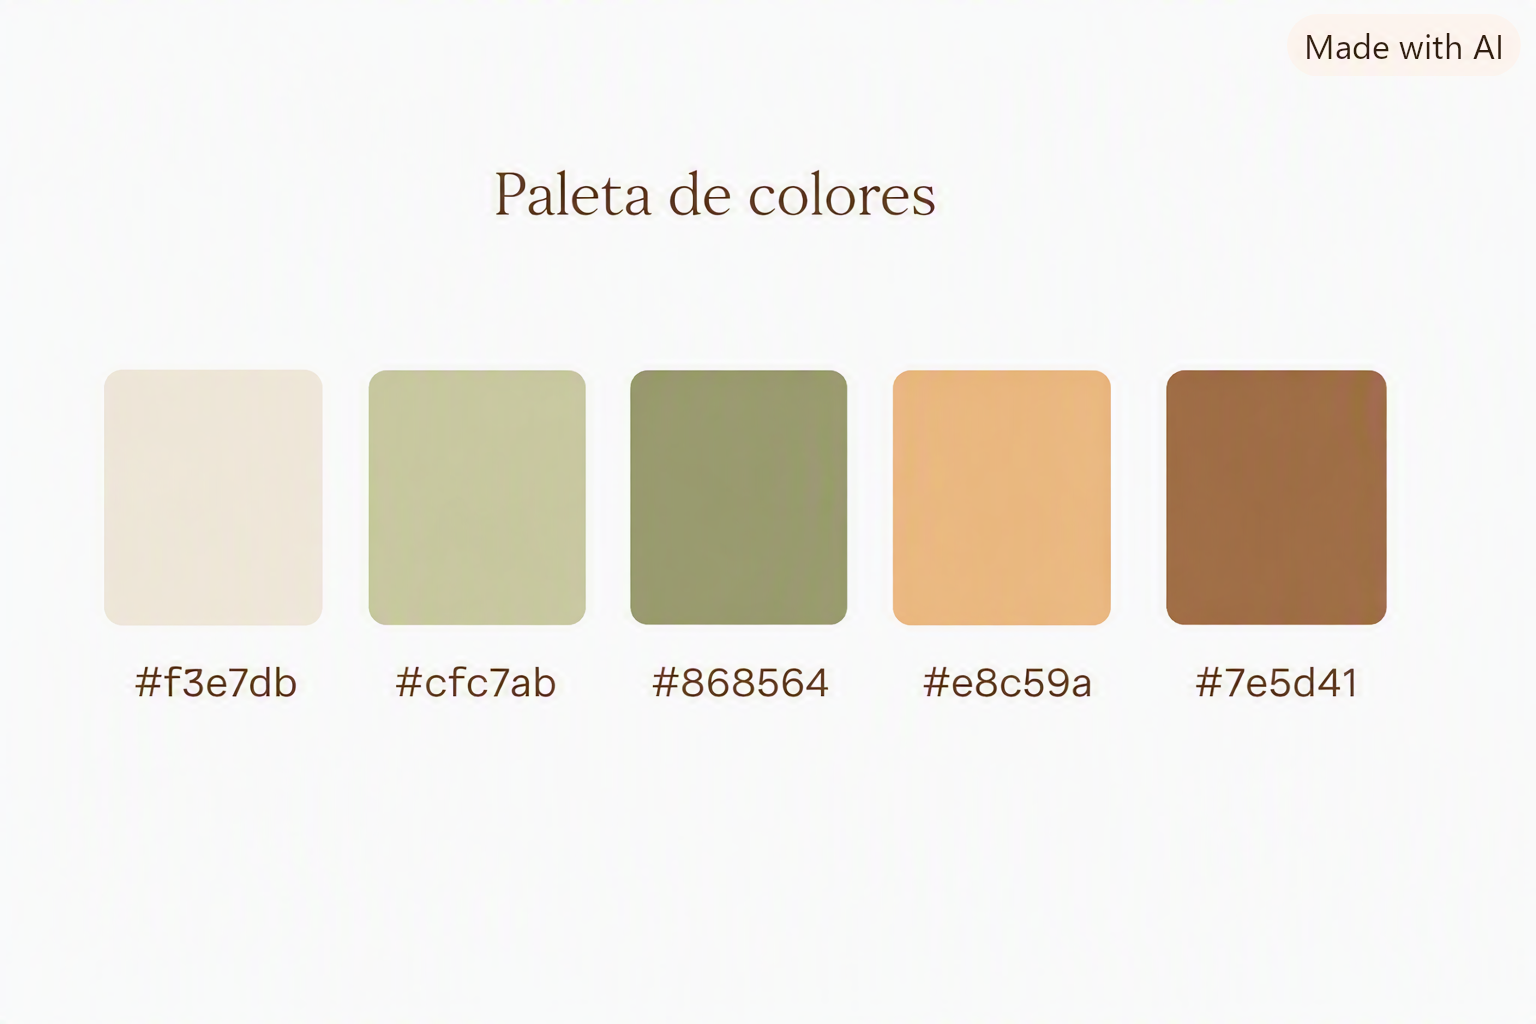
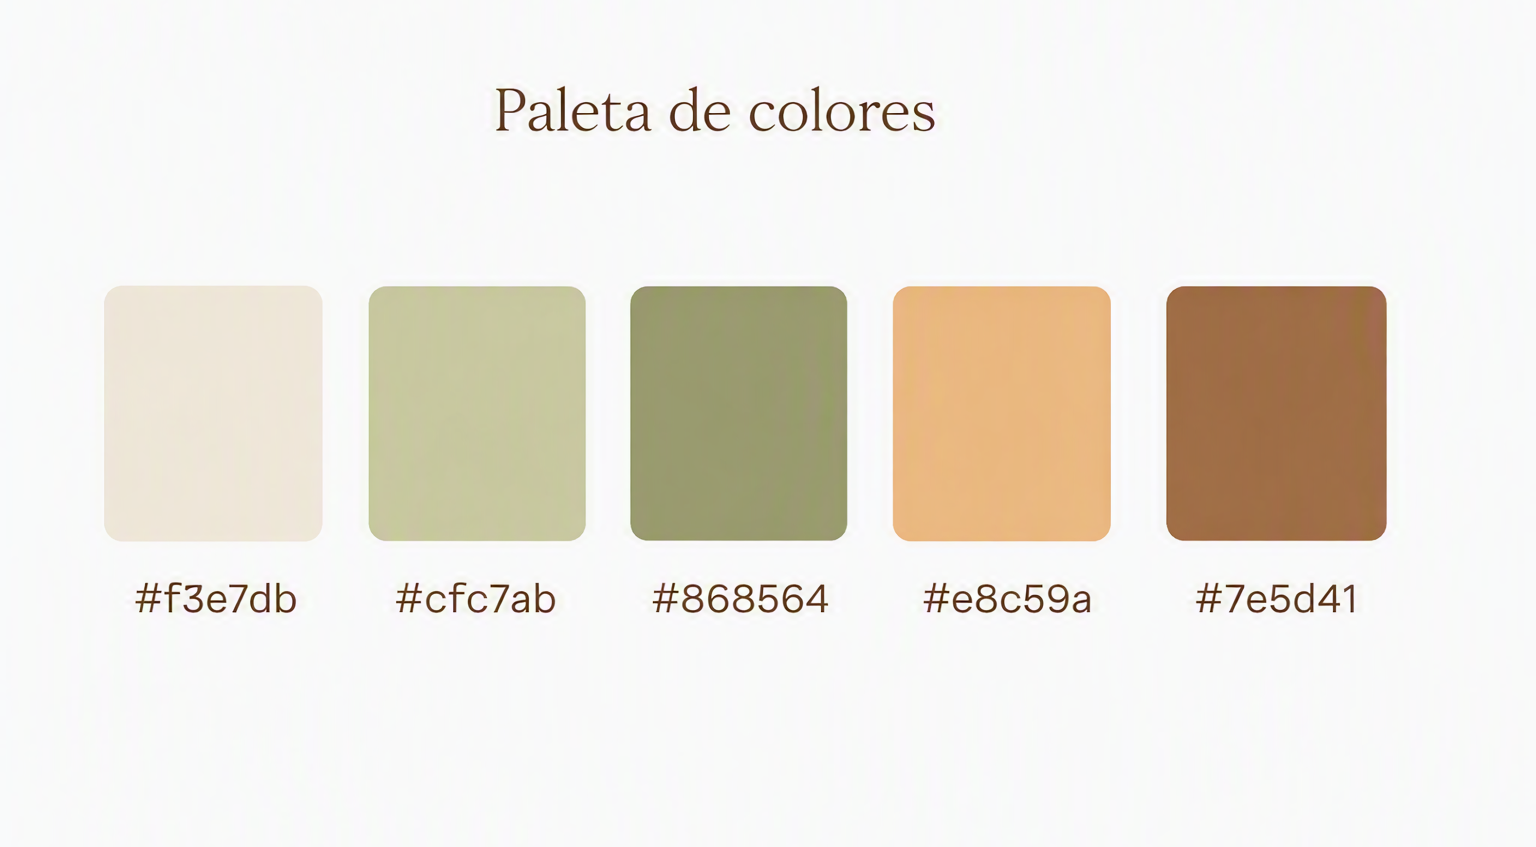
docs: ratify spec-kit constitution v1.0.0 (principles from project CONSTITUTION.md)

diff --git a/.specify/memory/constitution.md b/.specify/memory/constitution.md
@@ -1,50 +1,112 @@
-# [PROJECT_NAME] Constitution
-<!-- Example: Spec Constitution, TaskFlow Constitution, etc. -->
+<!--
+  Sync Impact Report
+  ----------------------------------------------------------------
+  Version change: (sin ratificar / scaffold) → 1.0.0
+  Principios modificados: N/A (ratificación inicial, sustituye el scaffold)
+  Secciones añadidas: Core Principles (5), Technical Architecture & Security,
+    Development Workflow & Quality Gates, Governance
+  Secciones eliminadas: N/A
+  TODOs diferidos: ninguno
+-->
+
+# Salud desde el Alma Constitution
+
+Documento de gobernanza de Spec Kit. La fuente de verdad de largo aliento del proyecto es
+`CONSTITUTION.md` en la raíz; esta constitución fija los principios operativos no negociables que
+todo comando, agente y cambio del ciclo deben respetar.
 
 ## Core Principles
 
-### [PRINCIPLE_1_NAME]
-<!-- Example: I. Library-First -->
-[PRINCIPLE_1_DESCRIPTION]
-<!-- Example: Every feature starts as a standalone library; Libraries must be self-contained, independently testable, documented; Clear purpose required - no organizational-only libraries -->
+### I. Mobile-First, Calm UX
+- El dispositivo principal de la cliente es el móvil: toda pantalla (landing y panel) se diseña
+  primero para móvil y luego escala a tablet/desktop.
+- Diseño minimalista, accesible (WCAG AA: contraste, tipografía legible, zonas táctiles cómodas)
+  y sereno: espacios amplios, bordes suaves, micro-interacciones tranquilas.
+- La apariencia debe ceñirse a la paleta oficial verde/sepia (Verde armonía `#6B8F71`, Verde
+  profundo `#3C5A44`, Sepia cálido `#A67C52`, Beige arena `#D9CBB3`, Dorado tenue `#C2A878`)
+  con el uso recomendado definido en §2.2 del CONSTITUTION.md.
+- Cada pantalla cumple una función clara; un solo color de acento por tarea principal.
 
-### [PRINCIPLE_2_NAME]
-<!-- Example: II. CLI Interface -->
-[PRINCIPLE_2_DESCRIPTION]
-<!-- Example: Every library exposes functionality via CLI; Text in/out protocol: stdin/args → stdout, errors → stderr; Support JSON + human-readable formats -->
+### II. Control & Security First
+- Se prohíbe depender de un BaaS para funciones críticas: el backend es propio
+  (Node.js + Express.js) con control total de la lógica de negocio e integraciones.
+- Autenticación mediante middleware propio (JWT + sesión con expiración) en todas las rutas del
+  panel y de la API; control de accesos por rol en la lógica de la aplicación.
+- SSL/TLS obligatorio en toda comunicación; secretos exclusivamente en variables de entorno,
+  jamás en el repositorio.
+- Base de datos PostgreSQL alojada en Hostinger, gestionada con Prisma (migraciones seguras y
+  consistentes). Racional del principio: evolución hacia reportes clínicos avanzados y auditoría
+  de datos sensibles sin limitaciones de un proveedor externo.
 
-### [PRINCIPLE_3_NAME]
-<!-- Example: III. Test-First (NON-NEGOTIABLE) -->
-[PRINCIPLE_3_DESCRIPTION]
-<!-- Example: TDD mandatory: Tests written → User approved → Tests fail → Then implement; Red-Green-Refactor cycle strictly enforced -->
+### III. Data Privacy & Auditability
+- Los datos de salud son sensibles: se tratan con confidencialidad y acceso restringido,
+  conforme a la normativa mexicana aplicable (LFPDPPP) y mejores prácticas.
+- Toda acción crítica (accesos, citas, pagos, cancelaciones) DEBE quedar registrada en la tabla
+  `audit_logs` como base para auditorías futuras.
+- El control de acceso es por capas (autenticación JWT + validación por rol); se debe poder
+  demostrar quién accedió a qué y cuándo.
 
-### [PRINCIPLE_4_NAME]
-<!-- Example: IV. Integration Testing -->
-[PRINCIPLE_4_DESCRIPTION]
-<!-- Example: Focus areas requiring integration tests: New library contract tests, Contract changes, Inter-service communication, Shared schemas -->
+### IV. Test & Quality Gates
+- Ninguna fase se considera cerrada sin cumplir su criterio de aceptación (§6.4 del
+  CONSTITUTION.md). El cerrado de fase es un gate, no una sugerencia.
+- Pruebas unitarias de la lógica de negocio (montos, validaciones de agendamiento, reglas del
+  chatbot); pruebas de integración sobre backend Node + PostgreSQL/Prisma + webhooks de WhatsApp;
+  UAT con la usuaria desde su móvil; pruebas de seguridad (JWT, control de accesos, SSL, secretos).
+- `main` solo recibe cambios probados de `develop`; toda integración se hace por Pull Request.
 
-### [PRINCIPLE_5_NAME]
-<!-- Example: V. Observability, VI. Versioning & Breaking Changes, VII. Simplicity -->
-[PRINCIPLE_5_DESCRIPTION]
-<!-- Example: Text I/O ensures debuggability; Structured logging required; Or: MAJOR.MINOR.BUILD format; Or: Start simple, YAGNI principles -->
+### V. Chatbot Persona as Specification
+- La identidad y conducta del chatbot (apéndice completo en CONSTITUTION.md §7) es especificación
+  obligatoria, no sugerencia: tono cálido y breve, español mexicano, formalidad media con
+  "usted", emojis ocasionales, nunca menús mecánicos.
+- El chatbot NO diagnostica, NO interpreta síntomas, NO recomienda medicamentos ni suplanta el
+  criterio de la psicóloga: deriva los temas clínicos a la psicóloga.
+- Es transparente si le preguntan si es un sistema automatizado; jamás se hace pasar por la
+  psicóloga ni inventa experiencias humanas.
+- Cuando no haya disponibilidad ofrece alternativas concretas; en cancelaciones no genera culpa.
 
-## [SECTION_2_NAME]
-<!-- Example: Additional Constraints, Security Requirements, Performance Standards, etc. -->
+## Technical Architecture & Security
 
-[SECTION_2_CONTENT]
-<!-- Example: Technology stack requirements, compliance standards, deployment policies, etc. -->
+Stack obligatorio (alineado a CONSTITUTION.md §3):
 
-## [SECTION_3_NAME]
-<!-- Example: Development Workflow, Review Process, Quality Gates, etc. -->
+- **Frontend:** Next.js (React) + TypeScript + Tailwind CSS.
+- **Backend:** Node.js + Express.js alojado en Hostinger; incluye lógica de negocio, webhooks de
+  WhatsApp, tareas programadas (cron) de recordatorios y servido del panel administrativo.
+- **Base de datos:** PostgreSQL en Hostinger; esquema versionado con Prisma.
+- **Chatbot:** WhatsApp Business Cloud API (Meta) + proveedor de mensajería + capa de IA
+  conversacional.
+- **Pagos sin pasarela:** registro directo en BD vinculado a la cita (anticipo opcional 50% y
+  pago completo el día de la sesión); la validación del comprobante es manual/semiautomática.
+  Pasarela (Stripe/OpenPay) es expansión futura y requiere enmienda.
+- **Seguridad:** SSL/TLS, middleware JWT, control de accesos por rol, registros de auditoría,
+  secretos en entorno, cumplimiento LFPDPPP para datos de salud.
 
-[SECTION_3_CONTENT]
-<!-- Example: Code review requirements, testing gates, deployment approval process, etc. -->
+Racional: control total, independencia de proveedores, escalabilidad ordenada hacia reportes
+clínicos y auditoría sin las limitaciones de un BaaS.
+
+## Development Workflow & Quality Gates
+
+- Repositorio único en Git (GitHub): ramas `main` (siempre desplegable), `develop` y
+  `feature/<descripcion>`; integración vía Pull Request con autorevisión y revisión cruzada.
+- Definición de terminado (DoD): build sin errores, lint y tests pasando, sin secretos ni código
+  muerto, criterio de aceptación de fase cumplido (§6.4 CONSTITUTION.md).
+- Tipos de prueba: unitarias → integración → UAT → seguridad. Cada fase del plan de 29 días
+  (CONSTITUTION.md §8) exige su gate antes de avanzar.
+- Toda enmienda de stack, paleta, alcance, fechas o conducta del chatbot debe actualizar primero
+  el CONSTITUTION.md y esta constitución antes de implementarse.
 
 ## Governance
-<!-- Example: Constitution supersedes all other practices; Amendments require documentation, approval, migration plan -->
 
-[GOVERNANCE_RULES]
-<!-- Example: All PRs/reviews must verify compliance; Complexity must be justified; Use [GUIDANCE_FILE] for runtime development guidance -->
+- Esta constitución y el `CONSTITUTION.md` raíz prevalecen sobre cualquier práctica o decisión
+  puntual que los contradiga; todo comando, PR y entregable DEBE verificar su cumplimiento.
+- Enmienda de constitución: documentar el cambio, justificar el bump de versión (semántico:
+  MAJOR para reformulaciones de principios, MINOR para principios/secciones nuevos, PATCH para
+  aclaraciones) y registrar un plan de cumplimiento antes de aplicar.
+- Revisión de cumplimiento: se verifica en cada cierre de fase y en cada PR (complexity must be
+  justified; cambios fuera de gobierno se rechazan).
+- Fechas y versiones: `CONSTITUTION_VERSION` semántico; `RATIFICATION_DATE` fija la adopción;
+  `LAST_AMENDED_DATE` se actualiza con cada cambio.
+- El long-form canonical del proyecto es `CONSTITUTION.md` en la raíz; cualquier conflicto entre
+  documentos se resuelve a favor del CONSTITUTION.md raíz, el cual es la referencia de detalle
+  para las decisiones técnicas y de diseño.
 
-**Version**: [CONSTITUTION_VERSION] | **Ratified**: [RATIFICATION_DATE] | **Last Amended**: [LAST_AMENDED_DATE]
-<!-- Example: Version: 2.1.1 | Ratified: 2025-06-13 | Last Amended: 2025-07-16 -->
+**Version**: 1.0.0 | **Ratified**: 2026-08-28 | **Last Amended**: 2026-08-28
